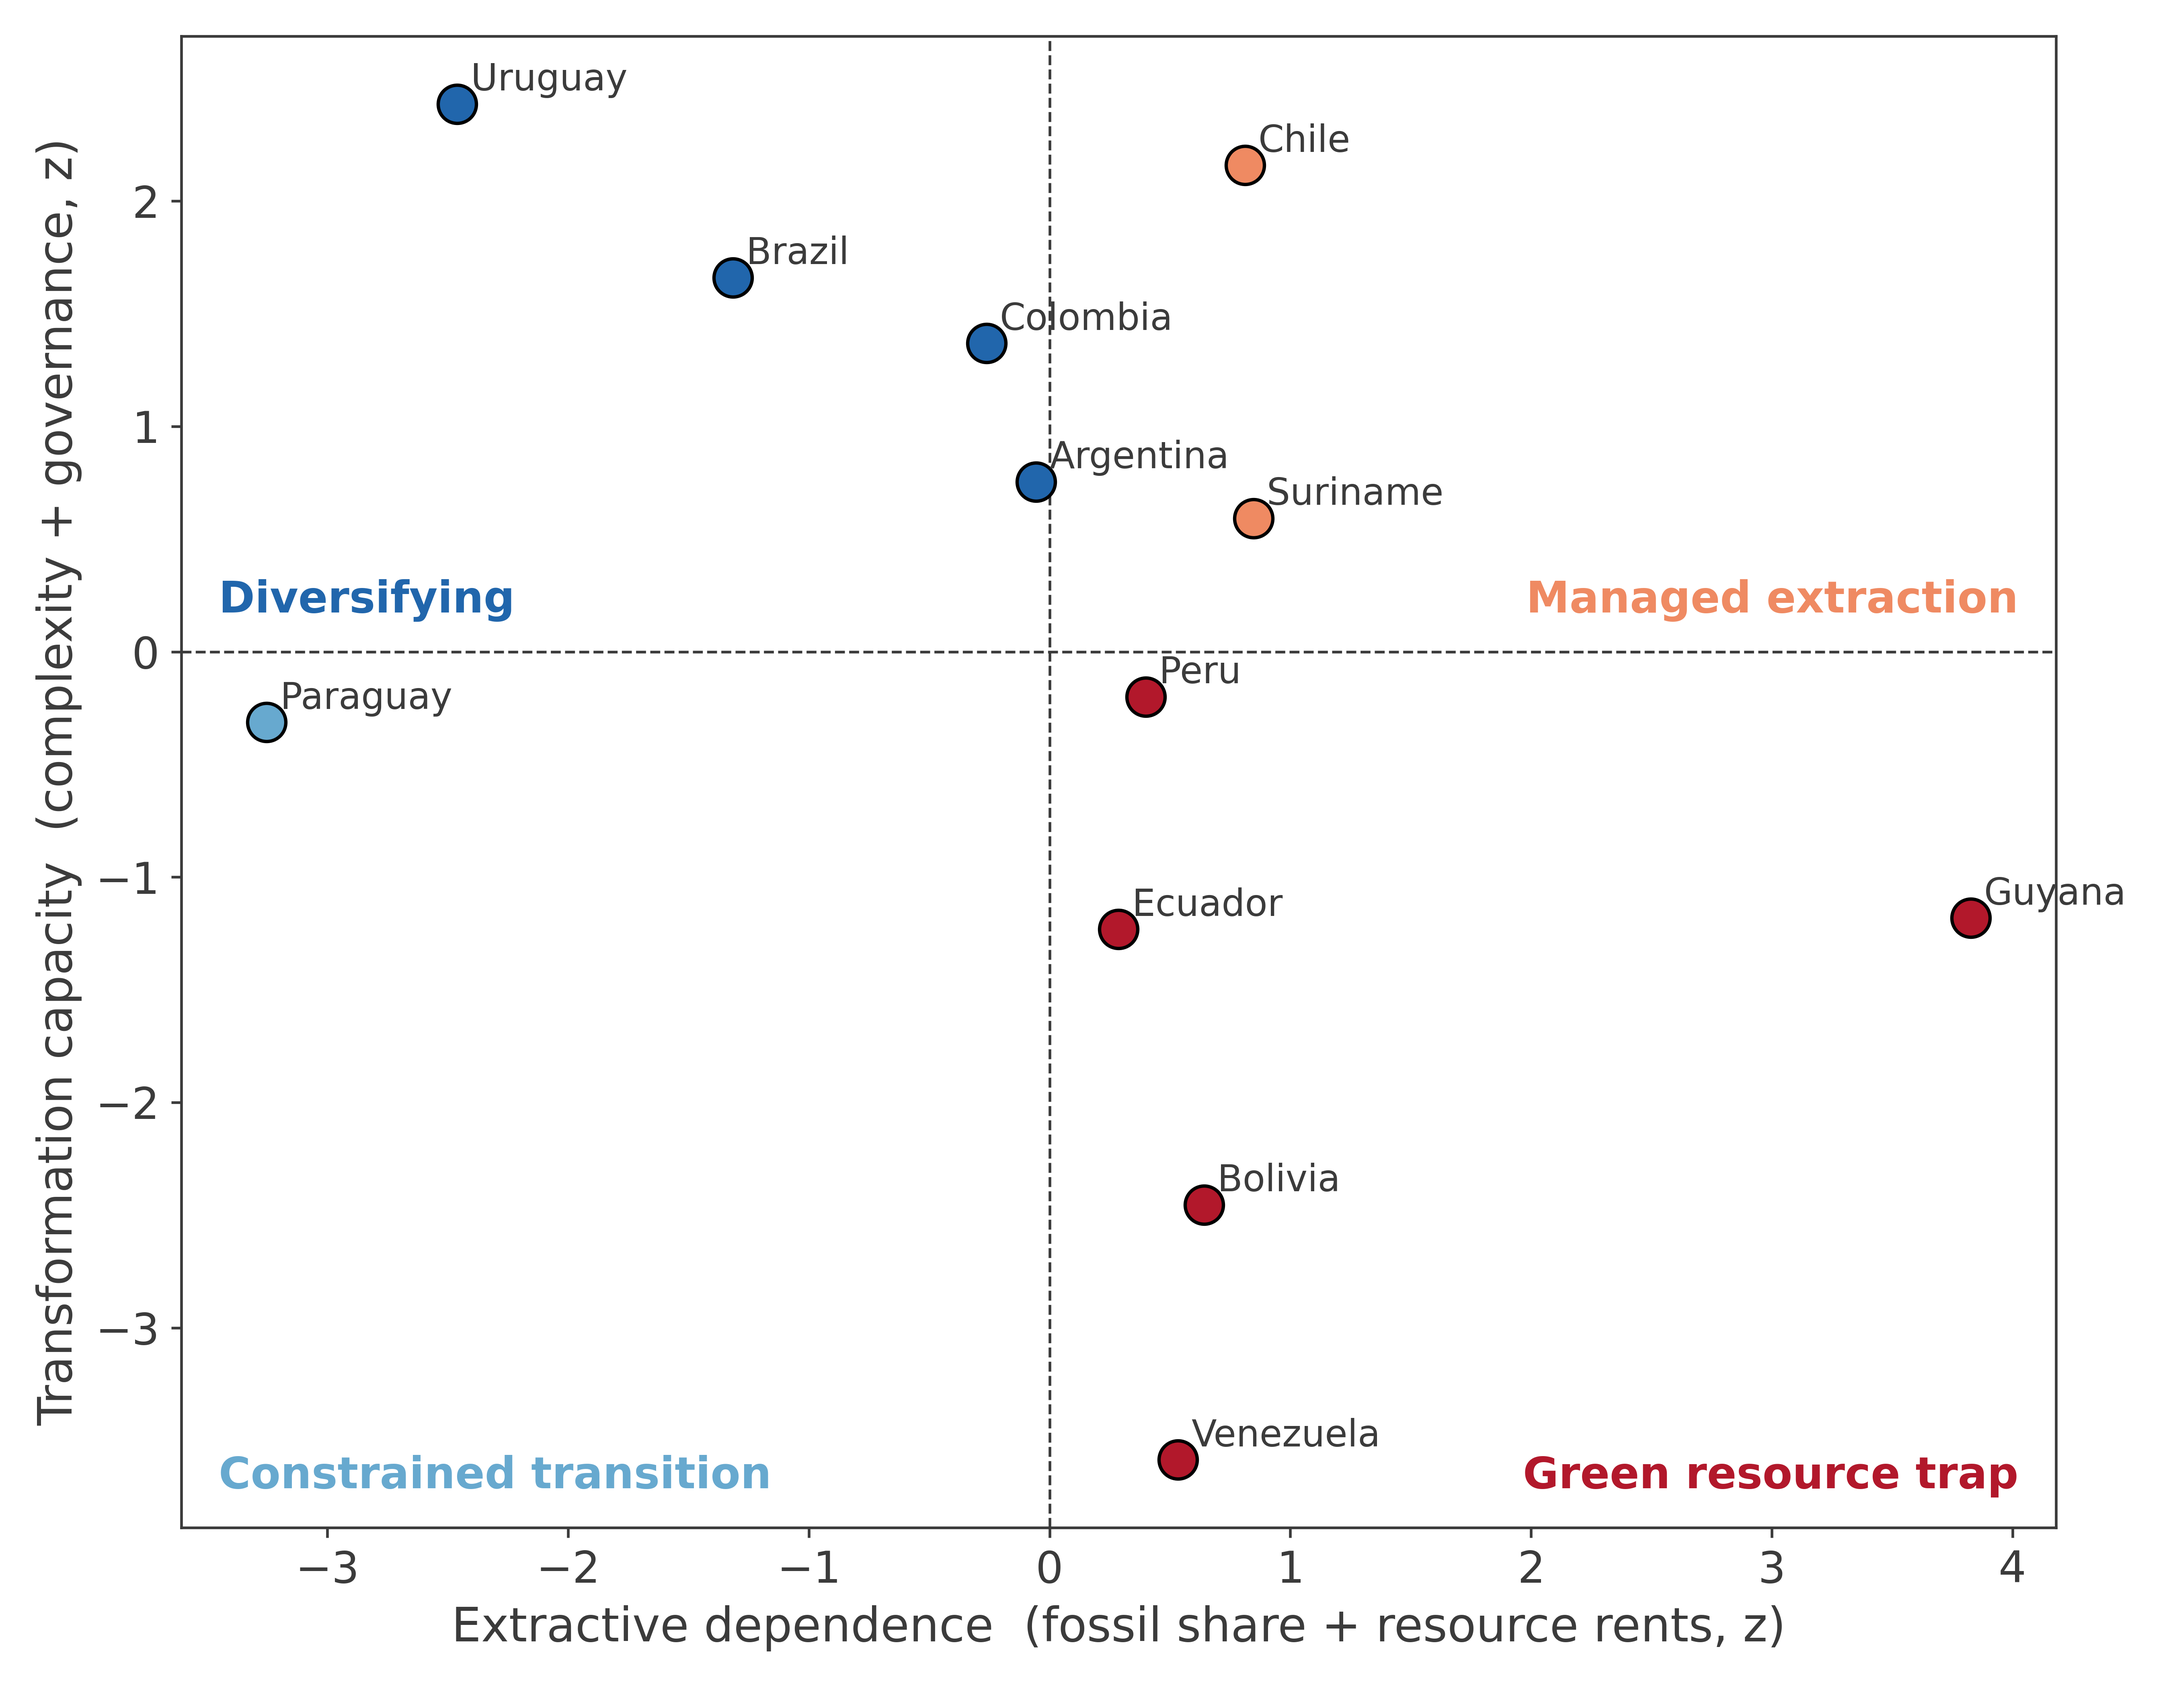
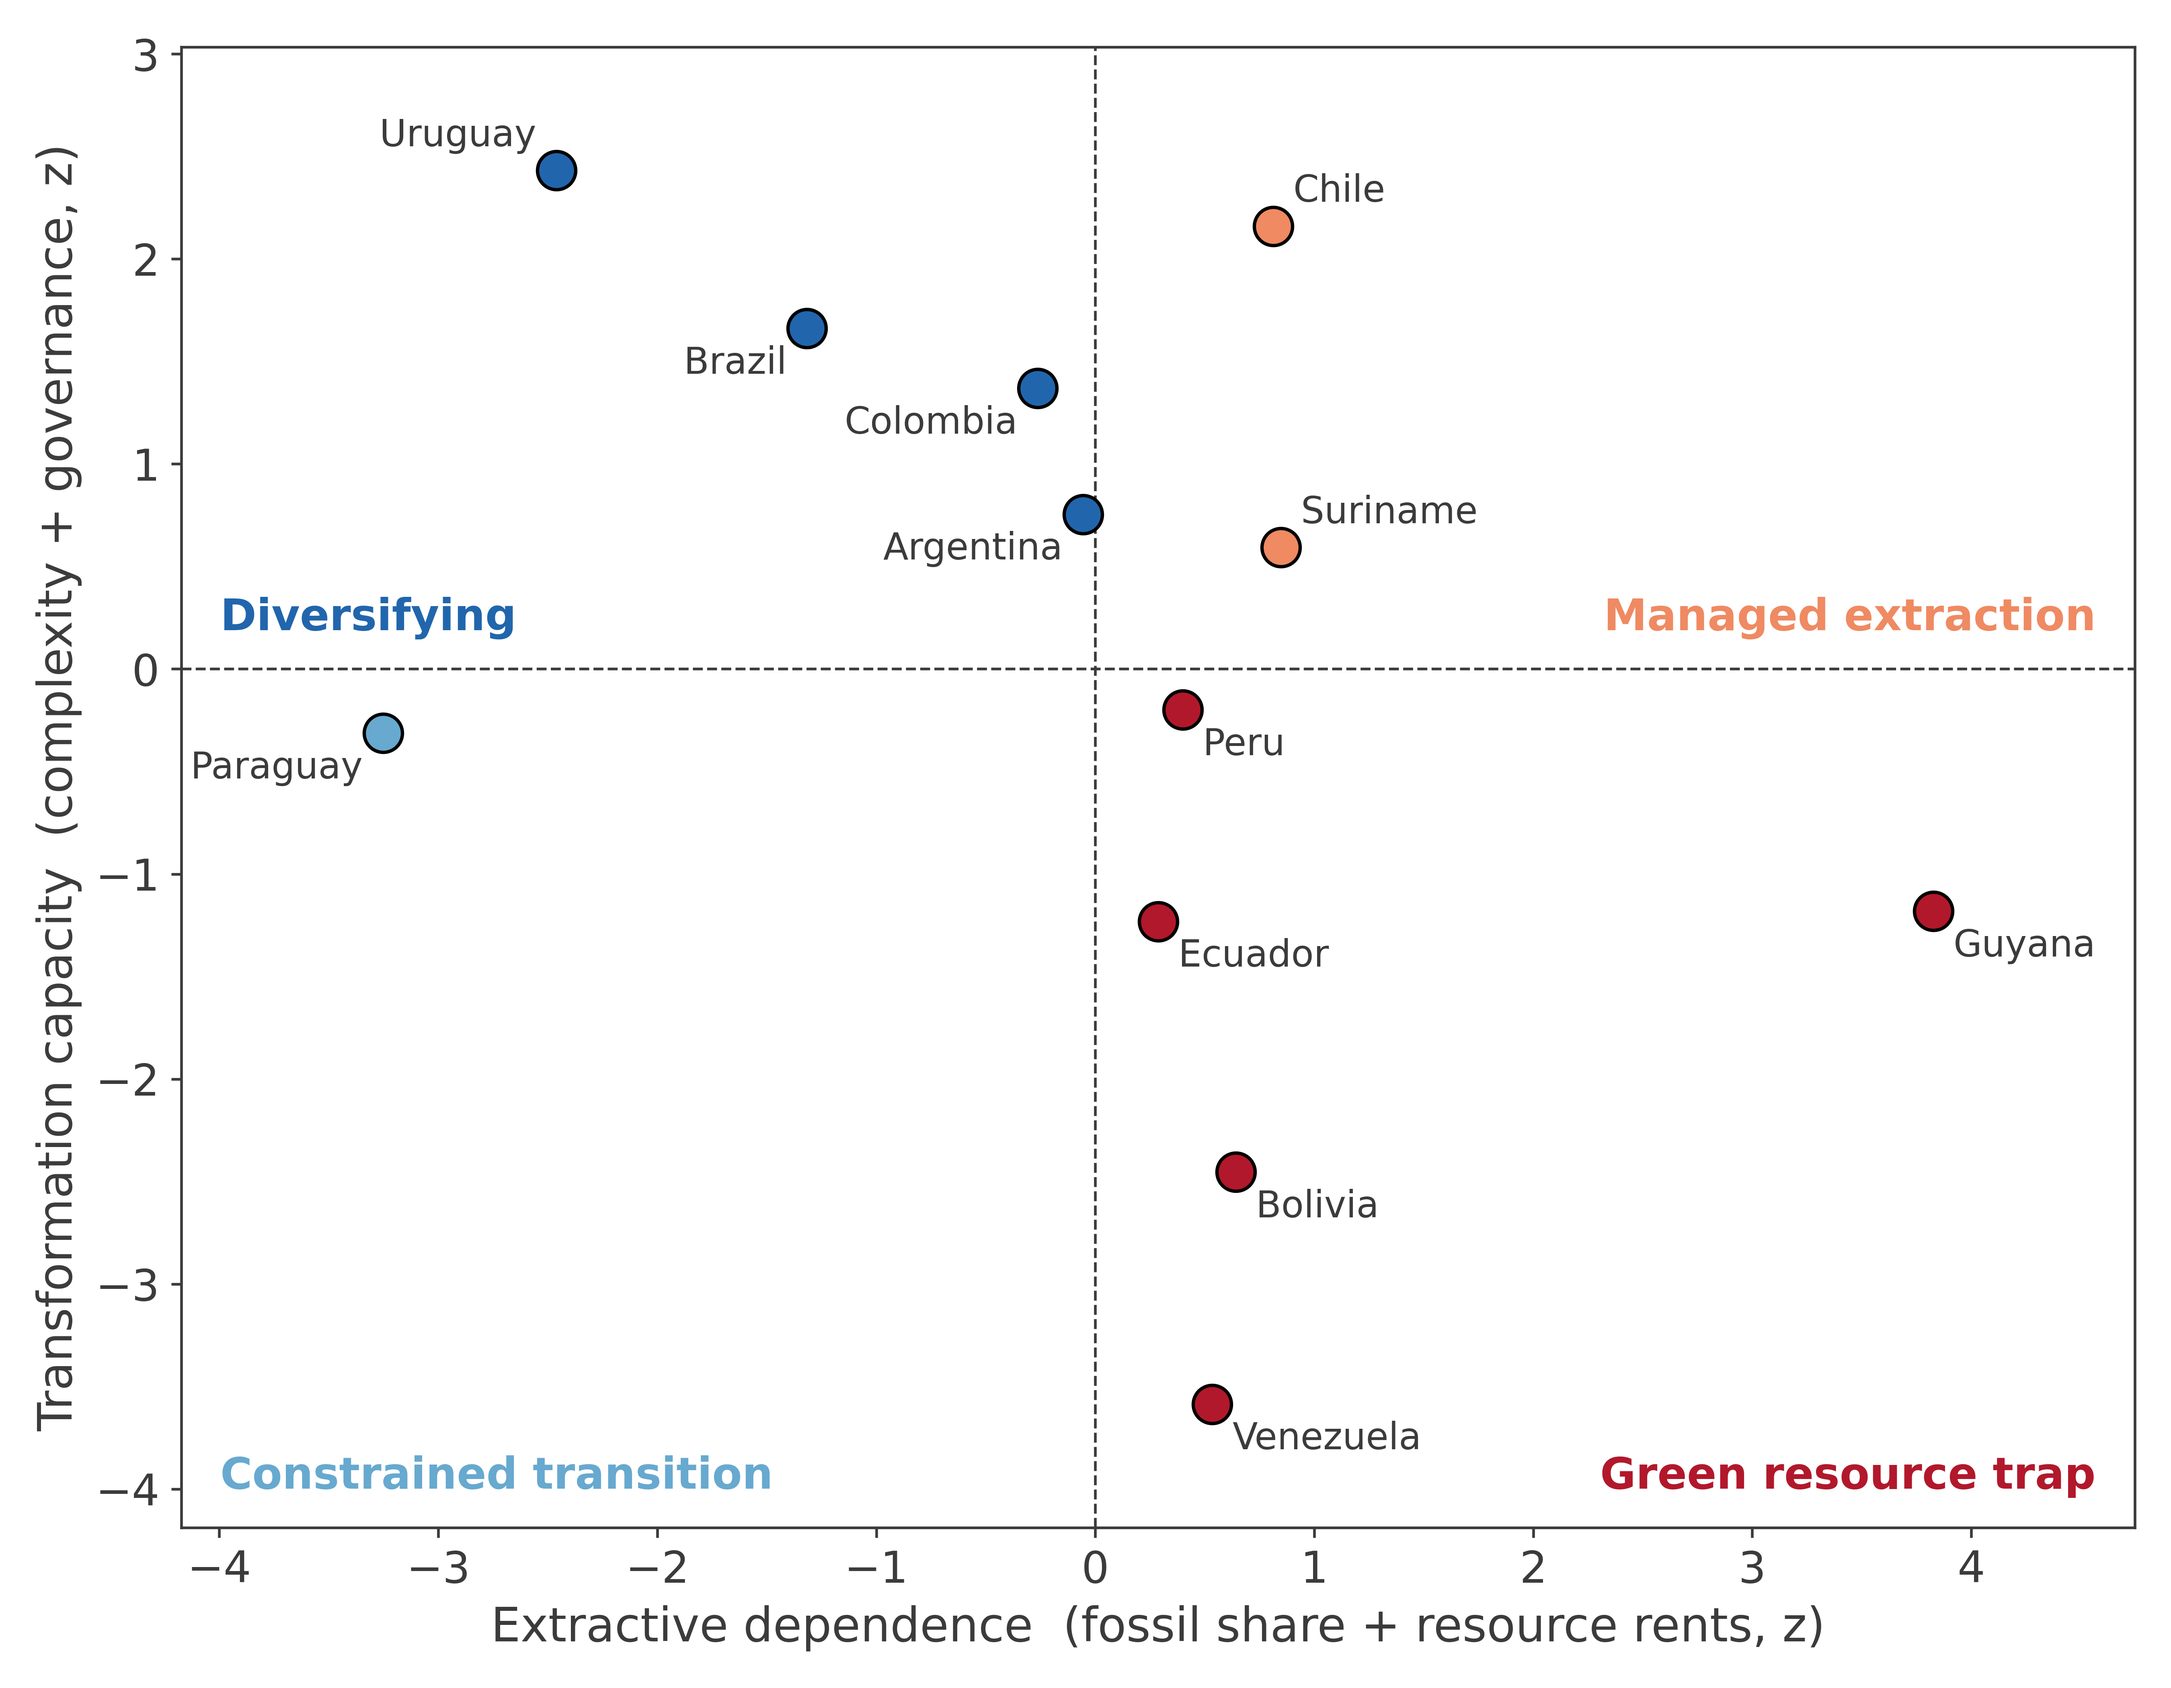
style(fig): typology 2x2 — fix label placement (borders, quadrant lines, cluster)
- Country labels now offset diagonally away from the origin (not just
  up-right), so none straddle the dashed dependence/capacity lines.
- Extra x-margin so the leftmost (Paraguay) and rightmost (Guyana) labels
  clear the plot border instead of touching it.
- Argentina/Brazil/Colombia (clustered upper-left) placed below-left of
  their points instead of above-left, so they read as a staircase instead
  of crowding together.

diff --git a/notebooks/03_typology.py b/notebooks/03_typology.py
@@ -70,9 +70,28 @@ colors = {
 for t, g in sa.groupby("type"):
     ax.scatter(g["axis_dependence"], g["axis_capacity"], s=130,
                color=colors[t], edgecolor="black", zorder=3)
+# extra margin (default autoscale is ~5%): the outward-pushed country labels
+# on the extremal points (Paraguay, Guyana) need more room than that on the
+# x side specifically, or their label touches the left/right plot border
+ax.margins(x=0.13, y=0.10)
+# Argentina/Brazil/Colombia sit close together in the upper-left quadrant;
+# pushed below-left instead of above-left, so their labels read as a
+# staircase under the points rather than crowding above them
+BELOW_LEFT = {"argentina", "brazil", "colombia"}
 for iso3, r in sa.iterrows():
-    ax.annotate(str(r["country"]).title(), (r["axis_dependence"], r["axis_capacity"]),
-                xytext=(4,4), textcoords="offset points", fontsize=11,
+    dep, cap = r["axis_dependence"], r["axis_capacity"]
+    # push the label diagonally AWAY from the origin (the dashed quadrant
+    # lines cross at 0,0), not just up-right — so it clears whichever line
+    # the point sits closest to, on either side, instead of risking a
+    # label that straddles one of them. Kept modest: in a tight cluster,
+    # pushing labels too far makes it ambiguous which point each belongs to.
+    dx, dy = (6 if dep >= 0 else -6), (5 if cap >= 0 else -5)
+    if str(r["country"]).strip().lower() in BELOW_LEFT:
+        dx, dy = -6, -5
+    ax.annotate(str(r["country"]).title(), (dep, cap),
+                xytext=(dx, dy), textcoords="offset points", fontsize=11,
+                ha=("left" if dx > 0 else "right"),
+                va=("bottom" if dy > 0 else "top"),
                 color=GREY, zorder=4)
 
 # quadrant name, bottom-anchored in its own quadrant: the two left-side
